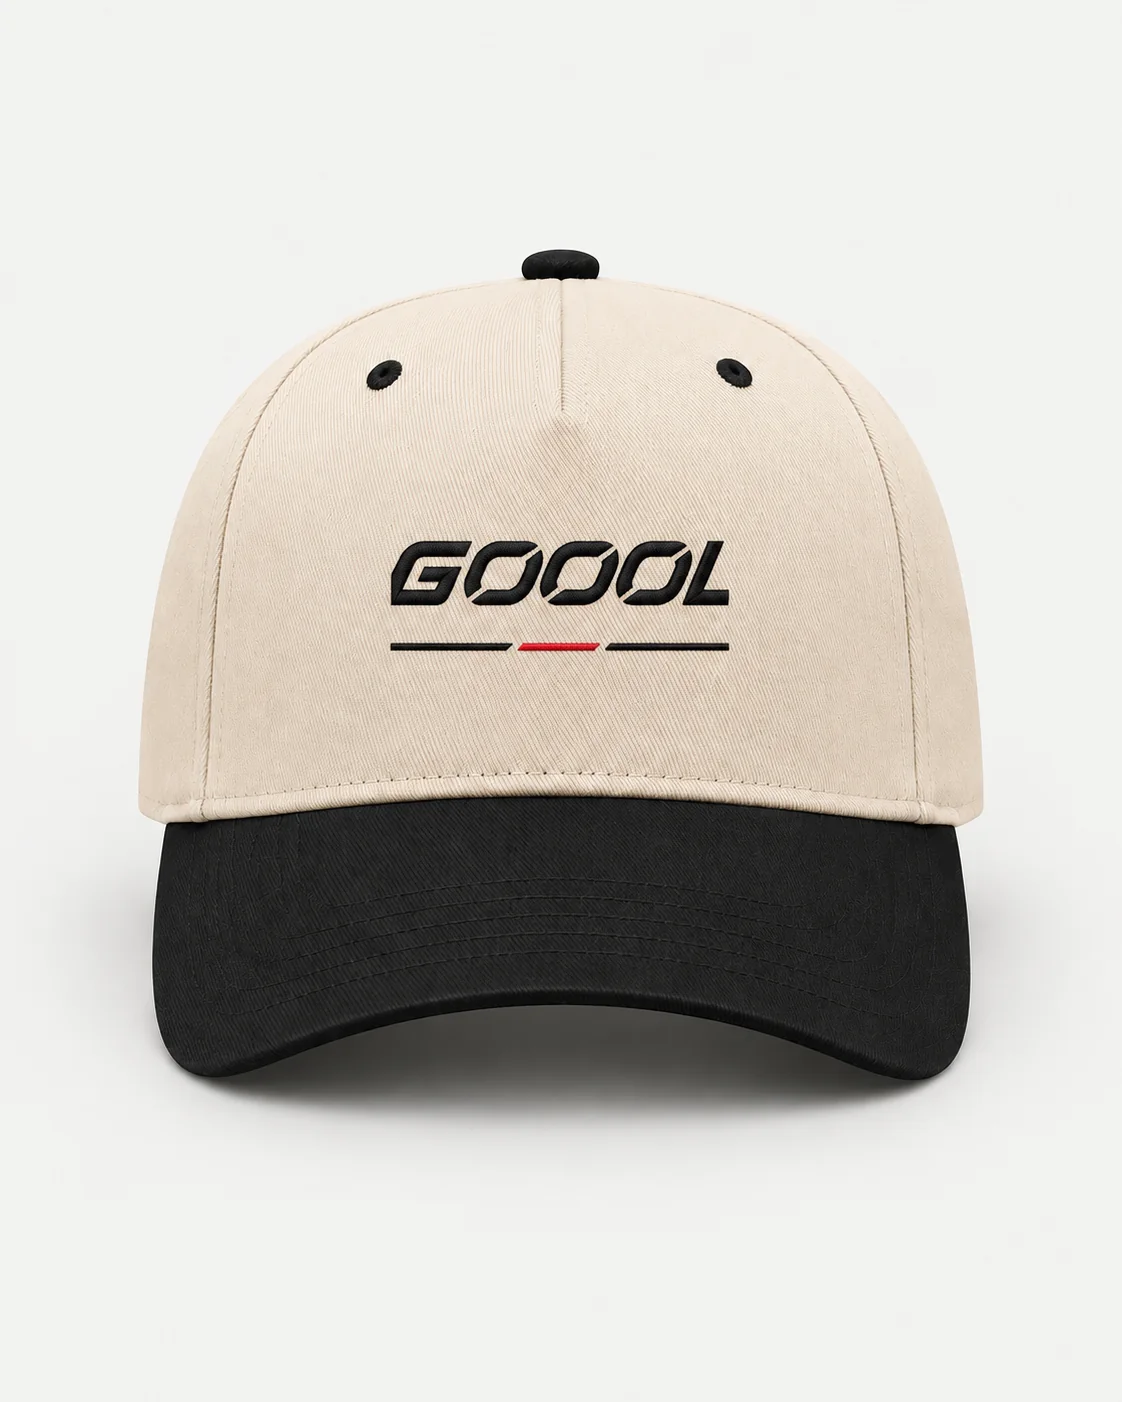
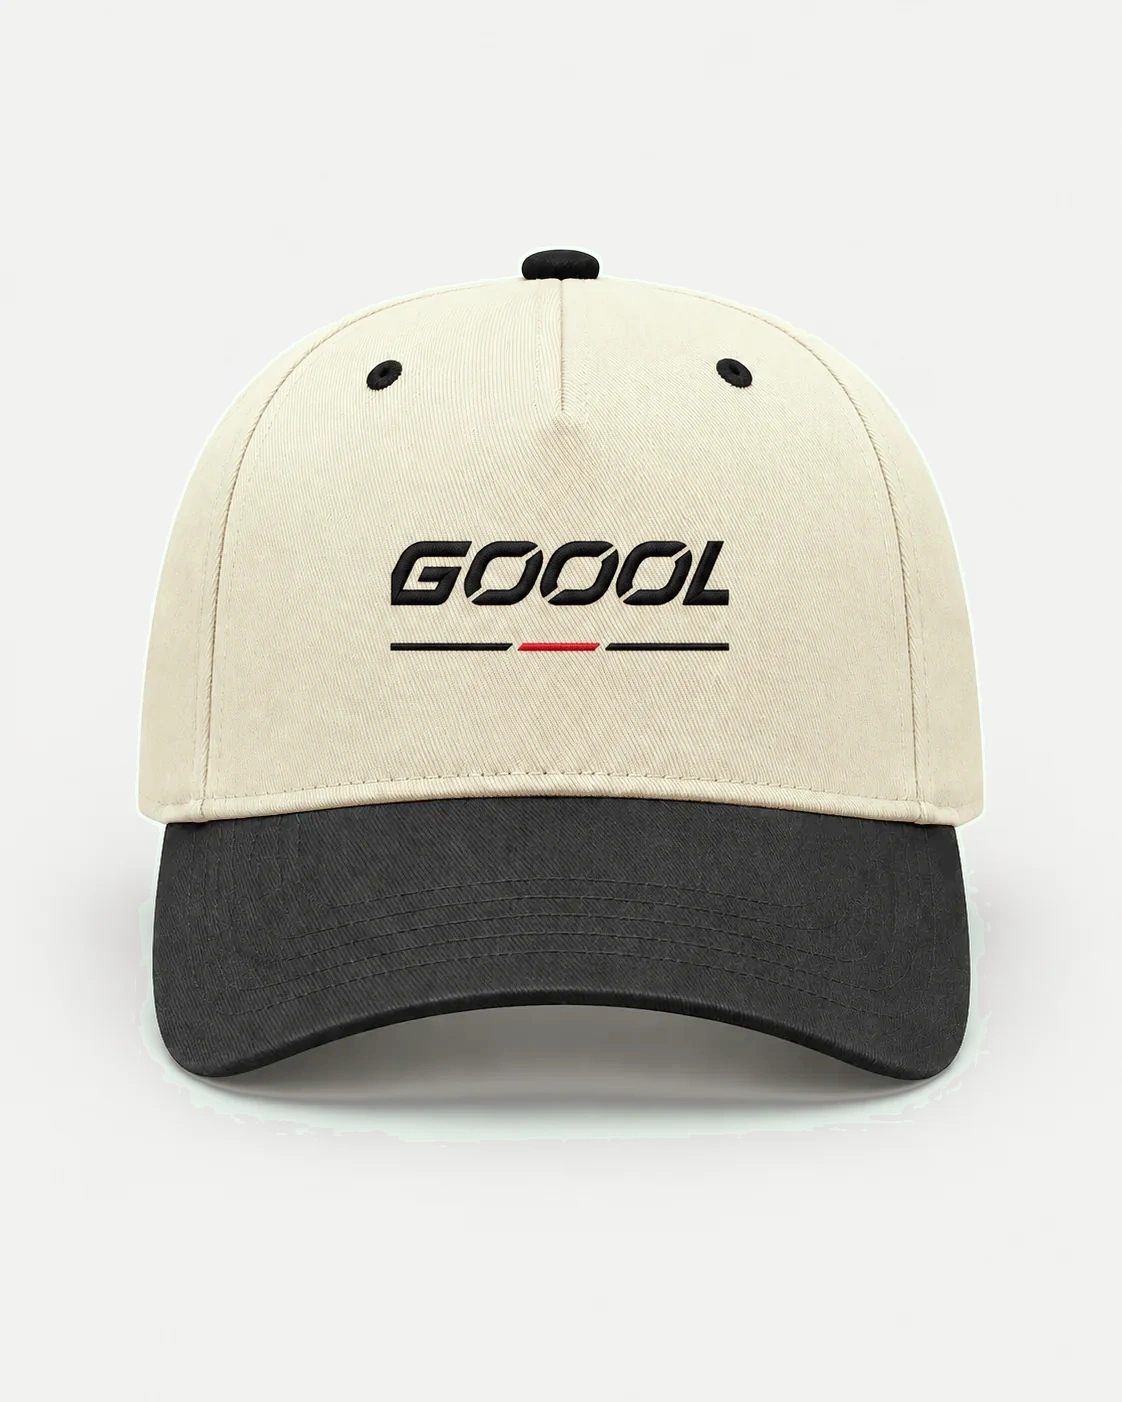
Catalog: match the Touchline Cap to Apliiq, per region
Owner approved. Two-tone garments need per-region targets - a single
median conflates the cream crown with the black brim, which is what
produced the brown #776651 in the first pass.

Measured against Apliiq design 6098980: crown #E2D4C4 -> #E4DFC9 exactly
on the front and #E4DFC8 on the back, front brim luminance 37 -> 59
against a 61 target. Embroidery protected, background mean change 0.08.

Fixes a defect caught on the mockup before shipping. Neutralising the
dark regions per-channel multiplies blue by 1.49 when converting brown
(57,49,41) to grey, which turned the back snapback strap navy and put a
green cast in the under-brim shadows. The brim is now lifted by luminance
only so hue cannot shift, the crown weight falls to zero on dark pixels
so shadows stay at identity, and the back strap is left untouched - it is
hardware, Apliiq renders no back view, and inventing a reference would be
guessing.

The crown shift is the most visible in the exercise: warm pinkish cream
to a cooler greener cream, because that is what ships. Swatch hex moved
to #E4DFC9 to match.

11 of 14 colourways now match. Purchasing gates untouched.

Changed region(s): [[0.1248, 0.5521, 0.8734, 0.7974]]

diff --git a/src/lib/products.ts b/src/lib/products.ts
@@ -1934,7 +1934,7 @@ export const products: Product[] = [
     priceCents: 3600,
     compareAtPriceCents: null,
     color: "Black/Natural",
-    colorHex: "#E8E0CE",
+    colorHex: "#E4DFC9",
     fabric: "65/35 polyester-cotton twill with firm buckram front (OTTO 31-069).",
     fit: "Adjustable - One Size. Structured mid-profile crown.",
     careInstructions: "Spot clean only.",

diff --git a/designs/18_launch_operations/COLOURMATCH-EXECUTION-2026-09-21.md b/designs/18_launch_operations/COLOURMATCH-EXECUTION-2026-09-21.md
@@ -154,3 +154,50 @@ against a photographed plate in a hero or lookbook layout.
 Performance Badge White and Circular Badge Ivory (unsafe to mask, occupancy
 0.231 and 0.26, and both already measured as matching), and Touchline Cap
 (two-tone, needs per-region handling).
+
+---
+
+# Round 3 — Touchline Cap (two-tone)
+
+Owner approved. The cap needed per-region handling because a single median
+conflates the cream crown with the black brim - that is what produced the
+brown #776651 in round 1.
+
+Measured separately against Apliiq's own render (design 6098980):
+
+| Region | site before | Apliiq | site after |
+|---|---|---|---|
+| Crown, front | #E2D4C4 | #E4DFC9 | **#E4DFC9** |
+| Crown, back | #E4D6C6 | #E4DFC9 | **#E4DFC8** |
+| Brim, front | luminance 37 | 61 | **59** |
+| Strap, back | #383029 | no reference | untouched |
+
+Background changed: mean 0.08-0.11, p99 of 2. Embroidery protected.
+
+## A defect caught and fixed before shipping
+
+The first attempt neutralised the dark regions per-channel. Converting a
+brown (57,49,41) to neutral grey multiplies the blue channel by 1.49, which
+swung every dark pixel blue: the back snapback strap turned navy and the
+under-brim shadows picked up a green cast. Visible immediately in the
+mockup.
+
+Three corrections: the brim is now lifted by LUMINANCE only, one factor
+across all channels, so hue cannot shift; the crown weight falls to zero on
+dark pixels so shadows sit at identity instead of blending into the brim
+factor; and the back strap is left untouched entirely. It is hardware, not
+fabric, and Apliiq renders only a front view, so there is no reference for
+it - inventing one would be guessing.
+
+## Note on the crown
+
+This is the most visible change in the whole colour-match exercise. The
+crown moves from a warm pinkish cream to a cooler, greener cream, because
+that is what Apliiq ships. Cream reads as a hue in a way near-black does
+not, so this one is genuinely noticeable. Owner approved it on the mockup.
+
+## Catalogue status
+
+11 of 14 colourways now match Apliiq's shipping colour. Remaining:
+Performance Badge White and Circular Badge Ivory, both skipped as unsafe to
+mask (occupancy 0.231 and 0.26) and both already measuring as matching.
